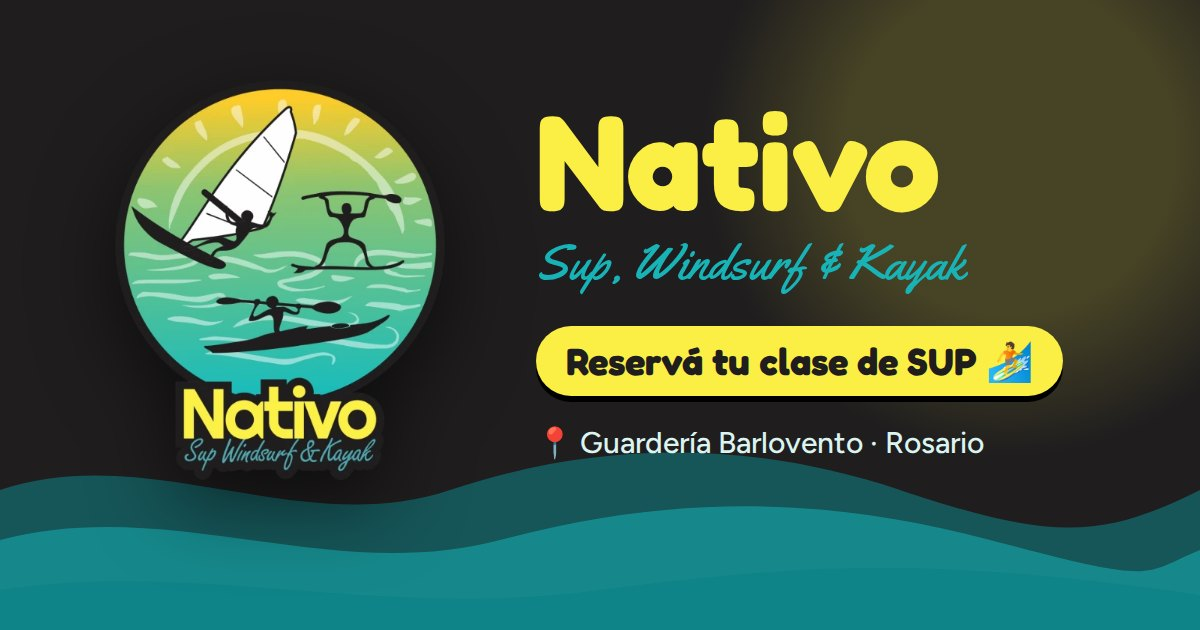
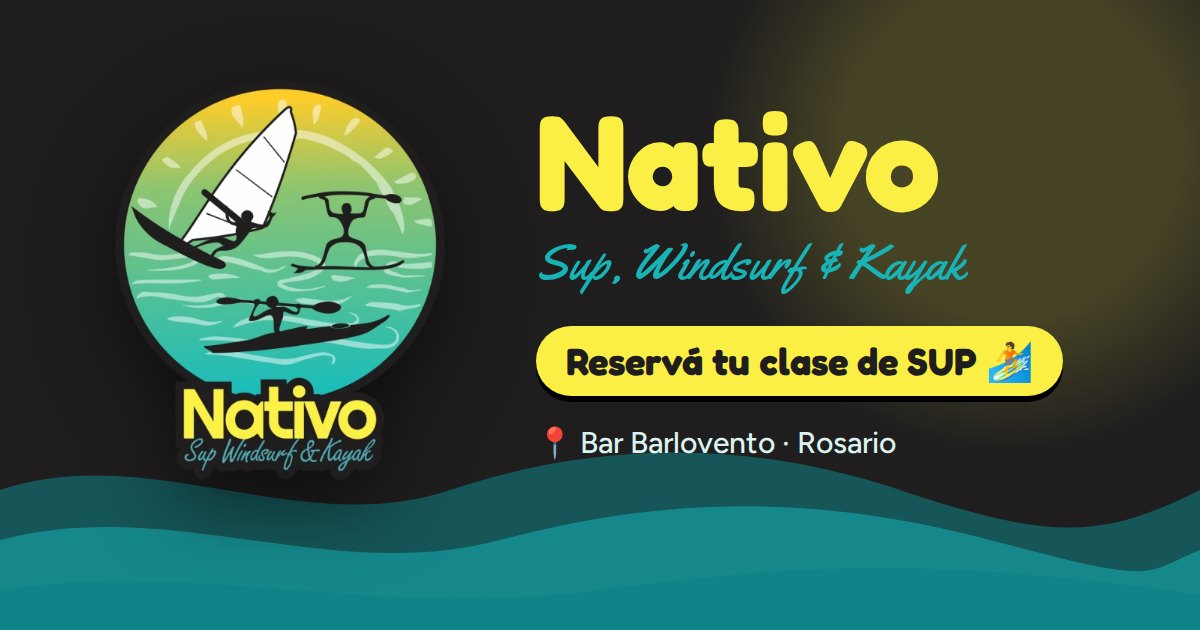
Lugar: Bar Barlovento (mapa, lugar por defecto de las clases, textos, landing e imagen al compartir)
Claude-Session: https://claude.ai/code/session_015iNHNcu7pwkYG9Hbrhyu6M

Changed region(s): [[0.4625, 0.6635, 0.8325, 0.7238]]

diff --git a/index.html b/index.html
@@ -11,10 +11,10 @@
 <meta property="og:site_name" content="Nativo">
 <meta property="og:locale" content="es_AR">
 <meta property="og:title" content="Nativo · Escuela de SUP en Rosario">
-<meta property="og:description" content="Elegí profe y horario y reservá tu clase de stand up paddle online. 📍 Guardería Barlovento.">
+<meta property="og:description" content="Elegí profe y horario y reservá tu clase de stand up paddle online. 📍 Bar Barlovento.">
 <meta property="og:url" content="https://www.nativoescuela.com.ar/">
-<meta property="og:image" content="https://www.nativoescuela.com.ar/img/og.jpg">
-<meta property="og:image:secure_url" content="https://www.nativoescuela.com.ar/img/og.jpg">
+<meta property="og:image" content="https://www.nativoescuela.com.ar/img/og.jpg?v=2">
+<meta property="og:image:secure_url" content="https://www.nativoescuela.com.ar/img/og.jpg?v=2">
 <meta property="og:image:type" content="image/jpeg">
 <meta property="og:image:width" content="1200">
 <meta property="og:image:height" content="630">
@@ -571,8 +571,8 @@ const CONFIG = {
   SUPABASE_URL: 'https://teoqnlebaglaewbbuyai.supabase.co',
   SUPABASE_KEY: 'sb_publishable_BvtrAZgX3iBzmlldYITJLQ_Q3PqTKXz',
   WHATSAPP: '5493364386564',        // WhatsApp de la escuela: 549 + característica + número, sin 15 (vacío = no se muestra)
-  LOCATION: 'Guardería Barlovento, Rosario',  // lugar por defecto de las clases
-  MAPS: 'https://www.google.com/maps/search/?api=1&query=' + encodeURIComponent('Guardería Barlovento Rosario'),  // botón "Cómo llegar"
+  LOCATION: 'Bar Barlovento, Rosario',  // lugar por defecto de las clases
+  MAPS: 'https://www.google.com/maps/search/?api=1&query=' + encodeURIComponent('Bar Barlovento Rosario'),  // botón "Cómo llegar"
   DAYS_AHEAD: 21,
   // Pronóstico en cada clase (Open-Meteo, gratis y sin clave). Aviso si el viento o las ráfagas pasan estos km/h.
   WEATHER: { lat: -32.905, lon: -60.672, windWarn: 35, gustWarn: 50 },
@@ -1324,7 +1324,7 @@ function demoSeed() {
   const plans = [{ id: 'pl-1', name: 'Abono mensual', description: '1 clase por semana durante un mes', price: 90000, classes: 4, days_valid: 30, active: true, sort: 1 }];
   const passes = [{ id: 'ps-demo', student_id: 'st-3', plan_id: 'pl-1', name: 'Abono mensual', price: 90000, classes_total: 4, days_valid: 30, status: 'pending', created_at: new Date().toISOString() }];
   const team_posts = [
-    { id: uid(), author_id: 'u-lucas', author_name: 'Lucas', pinned: true, body: 'Entrenamientos: martes y jueves 19 hs en la guardería. Traigan agua y ropa para cambiarse 💪', created_at: addDays(today, -6).toISOString() },
+    { id: uid(), author_id: 'u-lucas', author_name: 'Lucas', pinned: true, body: 'Entrenamientos: martes y jueves 19 hs en Barlovento. Traigan agua y ropa para cambiarse 💪', created_at: addDays(today, -6).toISOString() },
     { id: uid(), author_id: 'u-lucas', author_name: 'Lucas', pinned: false, body: 'Sábado travesía a la isla, salimos 9:30. ¡Avisen quién se suma!', created_at: addDays(today, -1).toISOString() }];
   return { profiles, class_types, slots, bookings, students, plans, passes, team_posts };
 }

diff --git a/landing.html b/landing.html
@@ -248,7 +248,7 @@ const T = {
 };
 const SB = { url: 'https://teoqnlebaglaewbbuyai.supabase.co', key: 'sb_publishable_BvtrAZgX3iBzmlldYITJLQ_Q3PqTKXz' };
 const CONTACT = { sup: { name: 'Torita', whatsapp: '5493364386564' } };   // kayak: el WhatsApp de Mati sale de su perfil
-const PLACE = { name: 'Guardería Barlovento', city: 'Rosario', q: 'Guardería Barlovento Rosario' };
+const PLACE = { name: 'Bar Barlovento', city: 'Rosario', q: 'Bar Barlovento Rosario' };
 
 /* ═══════════ Íconos e ilustraciones ═══════════ */
 const ICO = {
@@ -359,7 +359,7 @@ function draw({ types = [], profes = [], reviews = [], plans = [] } = {}) {
     <div class="pre"><div class="eyebrow">Sin experiencia, sin problema</div><h2>Tu primera clase</h2><p class="lead">Así de simple es arrancar.</p></div>
     <div class="steps">
       <div class="step pre"><div class="n">1</div><b>Reservás</b><p>Elegís día, horario y profe desde la web. El comprobante te llega al toque.</p></div>
-      <div class="step pre"><div class="n">2</div><b>Llegás</b><p>Venís a la ${PLACE.name} 15 minutos antes y completás tu ficha de salud (1 minuto).</p></div>
+      <div class="step pre"><div class="n">2</div><b>Llegás</b><p>Venís a ${PLACE.name} 15 minutos antes y completás tu ficha de salud (1 minuto).</p></div>
       <div class="step pre"><div class="n">3</div><b>Te equipamos</b><p>Te damos tabla o kayak, remo y chaleco, y te explicamos lo básico en tierra.</p></div>
       <div class="step pre"><div class="n">4</div><b>¡Al agua!</b><p>${supT ? dur(supT) : 'Una hora'} remando en el Paraná, con el profe al lado todo el tiempo.</p></div>
     </div>
@@ -392,7 +392,7 @@ function draw({ types = [], profes = [], reviews = [], plans = [] } = {}) {
   </div></section>
 
   <section class="pad" id="donde"><div class="wrap where">
-    <div class="pre"><div class="eyebrow">Te esperamos</div><h2>Dónde estamos</h2><p class="lead">Salimos al Paraná desde la ${PLACE.name}, en ${PLACE.city}. Llegá unos minutos antes para cambiarte y equiparte.</p>
+    <div class="pre"><div class="eyebrow">Te esperamos</div><h2>Dónde estamos</h2><p class="lead">Salimos al Paraná desde ${PLACE.name}, en ${PLACE.city}. Llegá unos minutos antes para cambiarte y equiparte.</p>
       <a class="btn dark" style="margin-top:24px" href="https://www.google.com/maps/search/?api=1&query=${encodeURIComponent(PLACE.q)}" target="_blank" rel="noopener">${ICO.pin} Cómo llegar</a></div>
     <div class="mapbox pre"><iframe title="Mapa: ${PLACE.name}" loading="lazy" referrerpolicy="no-referrer-when-downgrade" src="https://www.google.com/maps?q=${encodeURIComponent(PLACE.q)}&output=embed"></iframe>
       <div class="pin">${ICO.pin}${PLACE.name}</div></div>

diff --git a/api/page.js b/api/page.js
@@ -61,13 +61,13 @@ module.exports = async (req, res) => {
         title: `${trav ? '🧭 ' : sp === 'kayak' ? '🛶 ' : '🏄 '}${s.title} · ${day.charAt(0).toUpperCase() + day.slice(1)} ${hour}`,
         desc: `Con ${s.profe?.name || 'Nativo'} · ${dur} · ${money(s.price)} por persona. Reservá tu lugar en Nativo 👉`,
         url: `${site}/c/${slotId}`,
-        image: `${site}/img/${sp === 'kayak' ? 'og-kayak.jpg' : 'og.jpg'}`,
+        image: `${site}/img/${sp === 'kayak' ? 'og-kayak.jpg' : 'og.jpg?v=2'}`,
       };
     }
   } else if (sport === 'kayak') {
     m = {
       title: 'Nativo · Kayak en Rosario',
-      desc: 'Clases de kayak y travesías por el río. Elegí día y horario y reservá online. 📍 Guardería Barlovento.',
+      desc: 'Clases de kayak y travesías por el río. Elegí día y horario y reservá online. 📍 Bar Barlovento.',
       url: `${site}/kayak`,
       image: `${site}/img/og-kayak.jpg`,
     };
